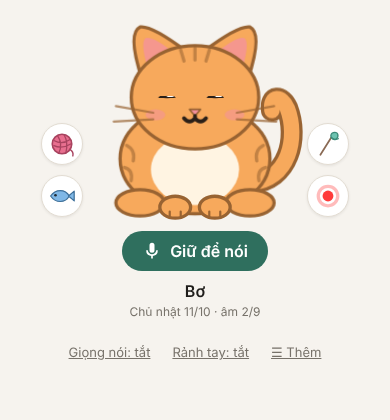
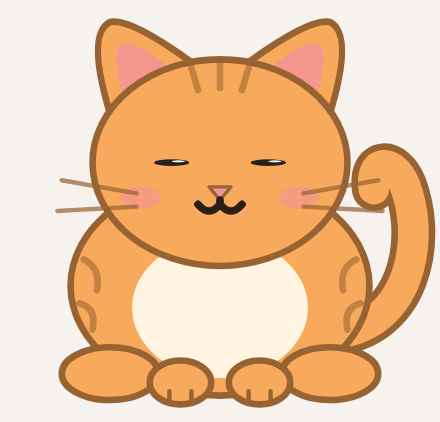
Rà soát giai đoạn 82: chụp ảnh mèo luôn ở giờ ban ngày, chụp lại bộ ảnh, thêm việc giai đoạn 83
Claude-Session: https://claude.ai/code/session_018RPy3sFJ99jyeXn8XE6fAF

diff --git a/scripts/chup_meo.py b/scripts/chup_meo.py
@@ -6,6 +6,7 @@ Ra: trang-dien-thoai.png (390×800), trang-may-tinh.png (1100×800), meo-<cảm 
      meo-tat-ca.png (mọi cảm xúc trên một tấm).
 """
 import base64
+from datetime import datetime
 import os
 import socket
 import subprocess
@@ -24,6 +25,11 @@ TRANG_THAI = config.EMOTIONS + ["ngu"]
 # (Ảnh chụp cả trang cho PROGRESS.md đừng đặt tên meo-<tư thế>.png: script này sẽ ghi đè.)
 TRANG_THAI_NHO = ["ngap", "liem", "cho", "lan", "mung", "bep", "hong", "nghe", "nguoc-long", "dap-tay", "rua-mat", "chong-mat",
                   "hat-xi", "boop", "nung-ma-trai", "be", "dinh-sua", "rinh", "vo-rinh", "nhoi", "chop-cham", "quo-trai", "om-len", "ngo-chan", "khoe", "theo-len", "ke-ke", "nhot-long", "ngoai-duoi"]
+
+
+def ban_ngay(pg):
+    """Chụp lúc khuya thì mắt Bơ lim dim (meo.js) → đặt giờ trình duyệt là 10h sáng cho ảnh giống nhau mỗi lần chụp."""
+    pg.clock.set_fixed_time(datetime.now().replace(hour=10, minute=0, second=0))
 
 
 def cong_trong():
@@ -50,11 +56,11 @@ def main(out):
             b = p.chromium.launch()
             for ten, w, h in [("dien-thoai", 390, 800), ("may-tinh", 1100, 800)]:
                 pg = b.new_page(viewport={"width": w, "height": h}, reduced_motion="reduce")
-                pg.goto(url); pg.wait_for_timeout(800)
+                ban_ngay(pg); pg.goto(url); pg.wait_for_timeout(800)
                 pg.screenshot(path=out / f"trang-{ten}.png")
                 pg.close()
             pg = b.new_page(viewport={"width": 390, "height": 800}, reduced_motion="reduce", device_scale_factor=2)
-            pg.goto(url); pg.wait_for_timeout(500)
+            ban_ngay(pg); pg.goto(url); pg.wait_for_timeout(500)
             face = pg.locator("#face")
             for e in TRANG_THAI:
                 pg.evaluate("e => { face.dataset.e = e; face.className = 'face'; }", e)

diff --git a/PROGRESS.md b/PROGRESS.md
@@ -5,8 +5,9 @@
 - **Góp ý:** ghi vào file `FEEDBACK.md`, phiên sau Claude sẽ xử lý trước.
 - **Lấy bản mới về máy:** `git pull` trong thư mục dự án rồi chạy lại `run.bat`.
 
-## 2026-10-12 – Giai đoạn 82: giọng cho trò len chạm đuôi
+## 2026-10-12 – Giai đoạn 82 xong: giọng cho trò len chạm đuôi
 - Bật "Giọng nói": lần len chạm đuôi đầu tiên trong ngày Bơ đọc to "Ai đụng đuôi Bơ?"; các lần sau chỉ hiện chữ (đã thử trên trình duyệt: lần 2 không đọc). 440 test qua hết.
+- Rà soát, sửa: `scripts/chup_meo.py` chụp lúc khuya thì ảnh mèo bị mắt lim dim (khác mỗi lần chụp) → giờ luôn đặt giờ trình duyệt 10h sáng. Bộ ảnh `docs/anh/meo-tat-ca.png` chụp lại, có thêm "ngoai-duoi". 440 test qua hết.
 **Tân cần thử:** bật Giọng nói, lăn cuộn len vào đuôi Bơ.
 
 ## 2026-10-12 – Giai đoạn 81 xong: len chạm đuôi

diff --git a/TASKS.md b/TASKS.md
@@ -432,7 +432,11 @@
 
 ## Giai đoạn 82 – Ý tưởng tiếp (Claude tự thêm, trong hướng mèo/chạm/giọng)
 - [x] Bật "Giọng nói": lần "Ai đụng đuôi Bơ?" đầu tiên trong ngày Bơ đọc to; các lần sau chỉ hiện chữ
-- [ ] Rà soát giai đoạn 82, sửa lỗi tìm được
+- [x] Rà soát giai đoạn 82, sửa lỗi tìm được
+
+## Giai đoạn 83 – Ý tưởng tiếp (Claude tự thêm, trong hướng mèo/chạm/giọng)
+- [ ] Lông vũ quét qua đuôi Bơ → đuôi quất qua quất lại đuổi theo lông (như mèo thật chơi với đuôi), không vồ
+- [ ] Rà soát giai đoạn 83, sửa lỗi tìm được
 
 ## Để sau (tạm dừng theo HUONG_PHAT_TRIEN.md)
 Giai đoạn 45 – Chuyện hỏi thăm rõ ràng hơn (chỉ làm khi Tân báo lỗi liên quan):
